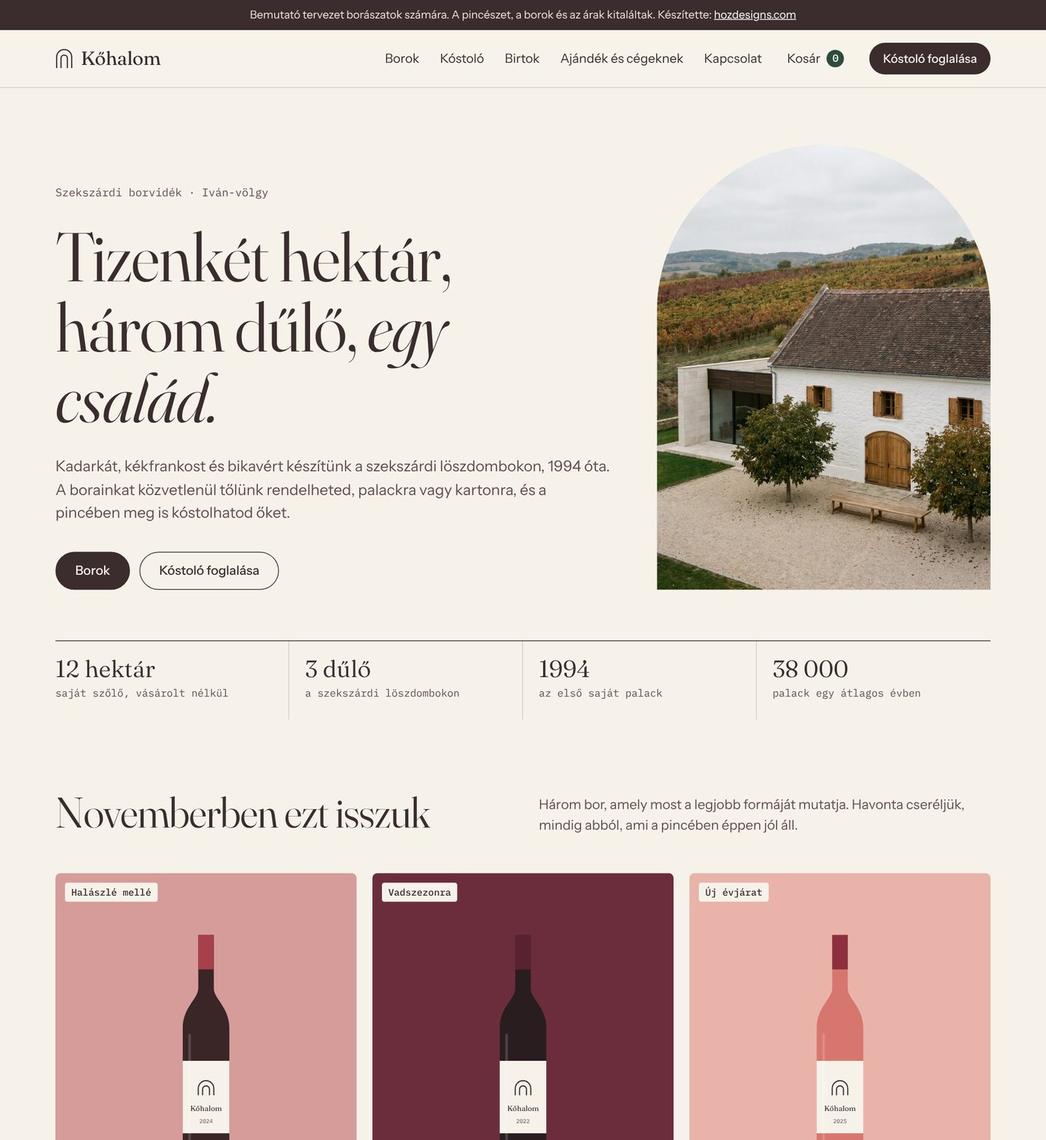
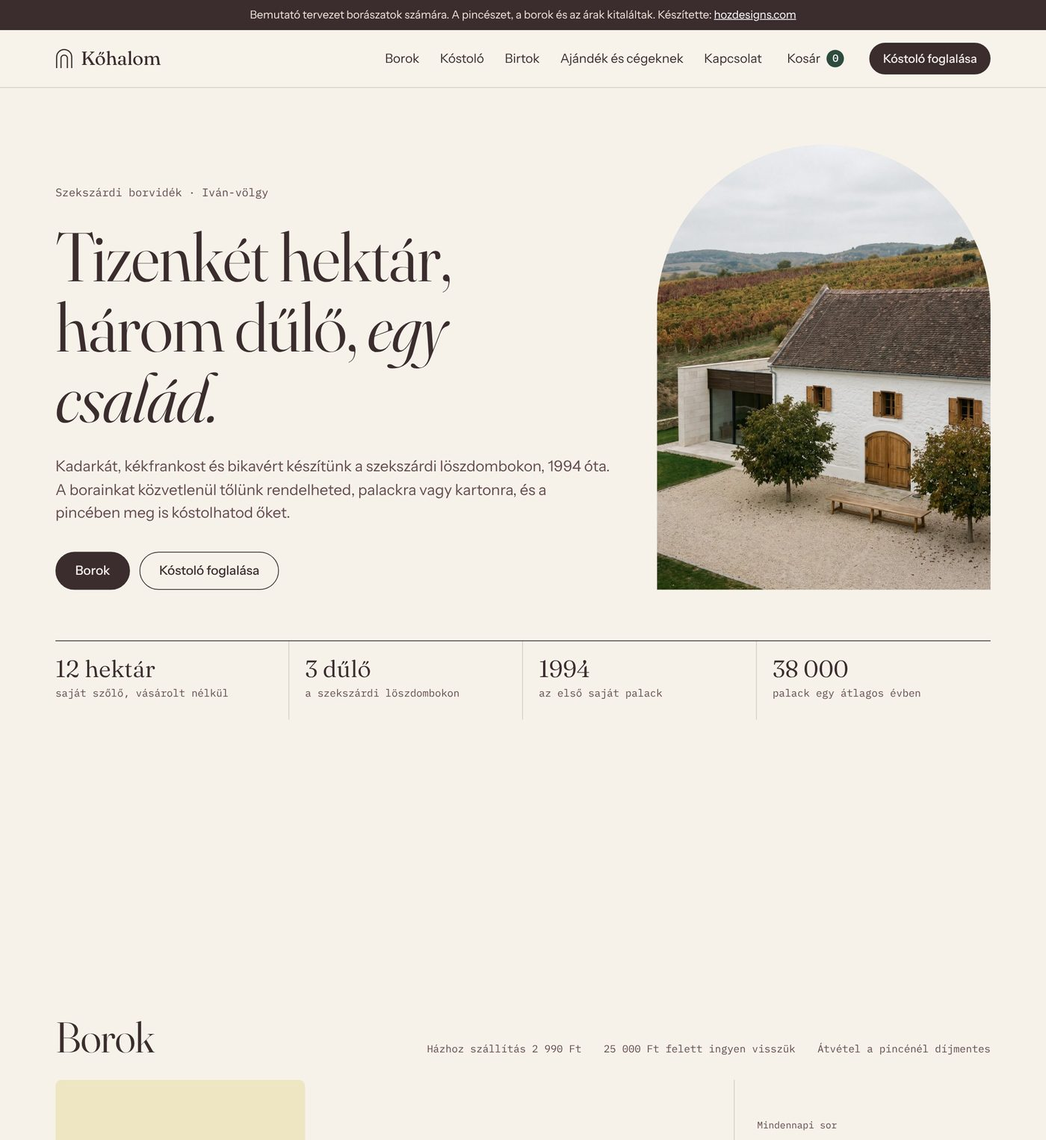
teszt-boraszat: rövidebb főoldal – görgetésre váltó bormutató egy képernyőn, kóstoló foglalókártyával, pincenapló le
Claude-Session: https://claude.ai/code/session_01DyVJTCEQRRMkVdNDVDpjXA

Changed region(s): [[0.0307, 0.7079, 0.9521, 1.0]]

diff --git a/minta/teszt-boraszat/index.html b/minta/teszt-boraszat/index.html
@@ -62,93 +62,65 @@
   </div>
 </section>
 
-<section id="ajanlo" style="padding-top:88px;padding-bottom:40px">
-  <div class="wrap">
-    <div class="head">
-      <h2>Novemberben ezt ajánljuk</h2>
-      <p>Három bor, amely most a legjobb formáját mutatja. Havonta cseréljük, mindig abból, ami a pincében éppen jól áll.</p>
+<section class="show" id="borok">
+  <div class="stage">
+    <div class="wrap">
+      <div class="shead">
+        <h2>Borok</h2>
+        <div class="shipline"><span>Házhoz szállítás 2 990 Ft</span><span>25 000 Ft felett ingyen visszük</span><span>Átvétel a pincénél díjmentes</span></div>
+      </div>
+      <div class="sgrid">
+        <div class="spic c-voros" id="s-pic"></div>
+        <div class="sinfo" id="s-info" aria-live="polite">
+          <div class="mono" id="s-sor"></div>
+          <h3 id="s-nev"></h3>
+          <p id="s-le"></p>
+          <div class="mono" id="s-adat"></div>
+          <p id="s-etel"></p>
+          <div class="sbuy"><div class="price" id="s-ar"></div><div class="qty" id="s-qty"></div></div>
+        </div>
+        <nav class="sidx" id="s-idx" aria-label="Borkínálat"></nav>
+      </div>
     </div>
-    <div class="grid three" id="ajanlo-grid"></div>
-  </div>
-</section>
-
-<section id="borok" style="padding-top:48px">
-  <div class="wrap">
-    <div class="head">
-      <h2>Borok</h2>
-    </div>
-    <div class="shipline"><span>Házhoz szállítás 2 990 Ft</span><span>25 000 Ft felett ingyen visszük</span><span>Átvétel a pincénél díjmentes</span><span>Törött palackot cserélünk</span></div>
-    <div class="chips" role="group" aria-label="Szűrés szín szerint" style="margin:22px 0 36px">
-      <button type="button" data-f="mind" aria-pressed="true">Mind</button>
-      <button type="button" data-f="vilagos" aria-pressed="false">Fehér, rozé, siller</button>
-      <button type="button" data-f="voros" aria-pressed="false">Vörös</button>
-    </div>
-    <div id="tiers"></div>
   </div>
 </section>
 
 <section class="dark" id="kostolo">
-  <div class="wrap">
-    <div class="head">
+  <div class="wrap kgrid">
+    <div>
       <h2>Kóstoló a pincében</h2>
-      <p>Csütörtöktől vasárnapig fogadunk vendégeket, kettőtől tizenhat főig. A kóstolót mindig a család egyik tagja vezeti. Válassz csomagot, és kérj időpontot.</p>
+      <p class="lead">Csütörtöktől vasárnapig fogadunk vendégeket, kettőtől tizenhat főig. A kóstolót mindig a család egyik tagja vezeti, a pince asztalánál.</p>
+      <img class="ph" src="img/kostolo.jpg" width="900" height="1205" alt="Vörösbor töltése a pince asztalánál, mellette kenyér, sajt és kolbász" loading="lazy">
+      <ul class="terms">
+        <li>A kóstoló díjából fejenként 2 000 Ft-ot beszámítunk, ha helyben bort is viszel.</li>
+        <li>Fizetni a helyszínen lehet, kártyával, készpénzzel vagy SZÉP-kártyával.</li>
+        <li>Lemondani az előző nap délig díjmentesen lehet.</li>
+      </ul>
+      <details><summary>Jöhetünk gyerekkel vagy kutyával?</summary><p>Igen. A gyerekeknek szörpöt adunk, a kutyáknak vizet, az udvar zárt.</p></details>
+      <details><summary>Mi lesz azzal, aki vezet?</summary><p>A sofőr ingyen jön, szőlőlevet és kávét kap. Szállást a faluban három helyen tudunk ajánlani.</p></details>
+      <details><summary>Adhatom ajándékba?</summary><p>Igen, kóstolóutalványt az <a href="#ajandek">ajándékok között</a> találsz. Egy évig érvényes.</p></details>
     </div>
-    <div class="packs" role="group" aria-label="Kóstolócsomagok">
-      <button class="pack" type="button" data-pack="Pincesor" data-price="5500" aria-pressed="false">
-        <span class="d">45 perc · 2–16 fő</span>
-        <h3>Pincesor</h3>
-        <span class="p">5 500 Ft / fő</span>
-        <ul><li>4 bor a mindennapi sorból</li><li>Rövid séta a pincében</li><li>Kenyér, víz</li></ul>
-        <span class="pick">Ezt választom</span>
-      </button>
-      <button class="pack" type="button" data-pack="Birtokkóstoló" data-price="8900" aria-pressed="true">
-        <span class="d">90 perc · 2–16 fő</span>
-        <h3>Birtokkóstoló</h3>
-        <span class="p">8 900 Ft / fő</span>
-        <ul><li>6 bor, köztük egy dűlőválogatás</li><li>Pincelátogatás és hordókóstoló</li><li>Kenyér, sajt, kolbász</li></ul>
-        <span class="pick">Ezt választom</span>
-      </button>
-      <button class="pack" type="button" data-pack="Dűlőválogatás a borásszal" data-price="14900" aria-pressed="false">
-        <span class="d">2 óra · 4–10 fő</span>
-        <h3>Dűlőválogatás a borásszal</h3>
-        <span class="p">14 900 Ft / fő</span>
-        <ul><li>8 bor, régebbi évjáratokkal</li><li>Séta az Iván-völgyi szőlőben</li><li>Hidegtál a környék termelőitől</li></ul>
-        <span class="pick">Ezt választom</span>
-      </button>
-    </div>
-
-    <div class="book">
-      <div>
-        <img class="ph" src="img/kostolo.jpg" width="900" height="1205" alt="Vörösbor töltése a pince asztalánál, mellette kenyér, sajt és kolbász" loading="lazy">
-        <h3>Jó tudni</h3>
-        <ul class="terms">
-          <li>Legalább két nappal előre kérj időpontot.</li>
-          <li>A kóstoló díjából fejenként 2 000 Ft-ot beszámítunk, ha helyben bort is viszel.</li>
-          <li>Fizetni a helyszínen lehet, kártyával, készpénzzel vagy SZÉP-kártyával.</li>
-          <li>Lemondani az előző nap délig díjmentesen lehet.</li>
-        </ul>
-        <details><summary>Jöhetünk gyerekkel vagy kutyával?</summary><p>Igen. A gyerekeknek szörpöt adunk, a kutyáknak vizet, az udvar zárt.</p></details>
-        <details><summary>Mi lesz azzal, aki vezet?</summary><p>A sofőr ingyen jön, szőlőlevet és kávét kap. Szállást a faluban három helyen tudunk ajánlani.</p></details>
-        <details><summary>Adhatom ajándékba?</summary><p>Igen, kóstolóutalványt az <a href="#ajandek">ajándékok között</a> találsz. Egy évig érvényes.</p></details>
+    <form id="f-kostolo" class="kcard" novalidate>
+      <h3>Válassz csomagot</h3>
+      <input type="hidden" name="csomag" value="Birtokkóstoló">
+      <div class="packs rows" role="group" aria-label="Kóstolócsomagok">
+        <button class="pack" type="button" data-pack="Pincesor" data-price="5500" aria-pressed="false"><span class="pick" aria-hidden="true"></span><b class="n">Pincesor</b><span class="p">5 500 Ft / fő</span><span class="d">45 perc · 4 bor · rövid séta a pincében · kenyér, víz</span></button>
+        <button class="pack" type="button" data-pack="Birtokkóstoló" data-price="8900" aria-pressed="true"><span class="pick" aria-hidden="true"></span><b class="n">Birtokkóstoló</b><span class="p">8 900 Ft / fő</span><span class="d">90 perc · 6 bor · pincelátogatás, hordókóstoló · kenyér, sajt, kolbász</span></button>
+        <button class="pack" type="button" data-pack="Dűlőválogatás a borásszal" data-price="14900" aria-pressed="false"><span class="pick" aria-hidden="true"></span><b class="n">Dűlőválogatás a borásszal</b><span class="p">14 900 Ft / fő</span><span class="d">2 óra · 8 bor, régi évjáratokkal · séta a szőlőben · hidegtál · 4–10 fő</span></button>
       </div>
-      <form id="f-kostolo" novalidate>
-        <h3>Időpontkérés</h3>
-        <label class="f"><span>Csomag</span>
-          <select class="inp" name="csomag"><option>Pincesor</option><option selected>Birtokkóstoló</option><option>Dűlőválogatás a borásszal</option></select></label>
-        <div class="row">
-          <label class="f"><span>Nap</span><input class="inp" type="date" name="nap" required></label>
-          <label class="f"><span>Kezdés</span><select class="inp" name="ido"><option>10:00</option><option>12:00</option><option selected>14:00</option><option>16:00</option></select></label>
-        </div>
-        <div class="row">
-          <label class="f"><span>Létszám</span><select class="inp" name="fo"><option>2 fő</option><option>3 fő</option><option selected>4 fő</option><option>5 fő</option><option>6 fő</option><option>7–10 fő</option><option>11–16 fő</option></select></label>
-          <label class="f"><span>Telefonszám</span><input class="inp" type="tel" name="tel" autocomplete="tel" required></label>
-        </div>
-        <label class="f"><span>Név</span><input class="inp" name="nev" autocomplete="name" required></label>
-        <button class="btn" type="submit">Időpontot kérek</button>
-        <p class="note" data-sum>Birtokkóstoló, 4 fő: 35 600 Ft a helyszínen. Ez még nem foglalás, 24 órán belül visszaigazoljuk. Telefonon is kérhetsz időpontot: <a href="tel:+36301234567">+36 30 123 4567</a></p>
-        <p class="ok" role="status">Köszönjük, megkaptuk. Bemutató oldalon vagy, ezért levél most nem megy ki. Élesben a pincészet azonnal értesítést kap a kérésről.</p>
-      </form>
-    </div>
+      <div class="row">
+        <label class="f"><span>Nap</span><input class="inp" type="date" name="nap" required></label>
+        <label class="f"><span>Kezdés</span><select class="inp" name="ido"><option>10:00</option><option>12:00</option><option selected>14:00</option><option>16:00</option></select></label>
+      </div>
+      <div class="row">
+        <label class="f"><span>Létszám</span><select class="inp" name="fo"><option>2 fő</option><option>3 fő</option><option selected>4 fő</option><option>5 fő</option><option>6 fő</option><option>7–10 fő</option><option>11–16 fő</option></select></label>
+        <label class="f"><span>Telefonszám</span><input class="inp" type="tel" name="tel" autocomplete="tel" required></label>
+      </div>
+      <label class="f"><span>Név</span><input class="inp" name="nev" autocomplete="name" required></label>
+      <button class="btn" type="submit">Időpontot kérek</button>
+      <p class="note" data-sum>Birtokkóstoló, 4 fő: 35 600 Ft a helyszínen. Ez még nem foglalás, 24 órán belül visszaigazoljuk. Telefonon is kérhetsz időpontot: <a href="tel:+36301234567">+36 30 123 4567</a></p>
+      <p class="ok" role="status">Köszönjük, megkaptuk. Bemutató oldalon vagy, ezért levél most nem megy ki. Élesben a pincészet azonnal értesítést kap a kérésről.</p>
+    </form>
   </div>
 </section>
 
@@ -193,21 +165,6 @@
           <button class="btn" type="submit">Ajánlatot kérek</button>
           <p class="ok" role="status" style="background:var(--zold-2)">Köszönjük, megkaptuk. Bemutató oldalon vagy, ezért levél most nem megy ki.</p>
         </form>
-      </div>
-    </div>
-  </div>
-</section>
-
-<section id="naplo" style="padding-top:0">
-  <div class="wrap logwrap">
-    <div class="arch"><img src="img/szuret.jpg" width="900" height="1205" alt="Kékfrankos szüretelése kézzel, metszőollóval" loading="lazy"></div>
-    <div>
-      <h2>Pincenapló</h2>
-      <p class="lead">Pár sor arról, mi történik éppen a szőlőben és a pincében.</p>
-      <div class="log">
-        <article><time datetime="2026-11-09">2026. november 9.</time><h3>Lefejtettük a kadarkát</h3><p>Az idei világosabb lett a tavalyinál, és nagyon meggyes. Tavasszal palackozzuk, addig hagyjuk békén.</p></article>
-        <article><time datetime="2026-10-17">2026. október 17.</time><h3>Vége a szüretnek</h3><p>Utoljára a Porkoláb cabernet franc-ja jött be. Huszonhárom nap, egy elromlott prés, nulla eső. Jó év volt.</p></article>
-        <article><time datetime="2026-09-28">2026. szeptember 28.</time><h3>Megjött az új siller</h3><p>A 2025-ös elfogyott augusztusra, ezért idén kétszer annyit készítettünk. Hűtve idd, de ne jegesen.</p></article>
       </div>
     </div>
   </div>
@@ -261,7 +218,7 @@
         <p>Családi pincészet a szekszárdi Iván-völgyben, 1994 óta.</p>
       </div>
       <div><h4>Vásárlás</h4><ul><li><a href="#borok">Borok</a></li><li><a href="#ajandek">Ajándék és cégeknek</a></li><li><a href="#borok">Szállítás és fizetés</a></li><li><a href="#">ÁSZF és elállás</a></li></ul></div>
-      <div><h4>Pince</h4><ul><li><a href="#kostolo">Kóstoló</a></li><li><a href="birtok/">Birtok</a></li><li><a href="#naplo">Pincenapló</a></li><li><a href="#kapcsolat">Kapcsolat</a></li></ul></div>
+      <div><h4>Pince</h4><ul><li><a href="#kostolo">Kóstoló</a></li><li><a href="birtok/">Birtok</a></li><li><a href="#kapcsolat">Kapcsolat</a></li></ul></div>
       <div><h4>Fizetés és szállítás</h4><ul><li>Bankkártya, átutalás, utánvét</li><li>GLS futár, 2–4 munkanap</li><li>Csomagautomata 1 690 Ft</li></ul></div>
     </div>
     <div class="bar"><span>© 2026 Kőhalom Pince · Bemutató oldal, a pincészet kitalált</span><span>18 éven aluliakat nem szolgálunk ki. Fogyaszd felelősséggel.</span><span>Weboldal: <a href="https://hozdesigns.com">hozdesigns.com</a></span></div>
@@ -293,17 +250,6 @@
     </div>
   </div>
 </dialog>
-
-<dialog id="borlap" aria-labelledby="bl-nev"><div class="in"><div class="pic" id="bl-pic"></div><div class="txt">
-  <button class="x" type="button" data-close aria-label="Bezárás">×</button>
-  <div class="mono" id="bl-sor" style="color:var(--fust)"></div>
-  <h3 id="bl-nev"></h3>
-  <p id="bl-leiras"></p>
-  <dl id="bl-adat"></dl>
-  <p id="bl-etel" style="color:var(--fust);margin:0"></p>
-  <div class="qty" id="bl-qty"></div>
-  <p class="note" id="bl-ar"></p>
-</div></div></dialog>
 
 <dialog id="kor">
   <svg><use href="#iv"/></svg>
@@ -348,25 +294,34 @@ var G=[
 var P={};W.concat(G).forEach(function(w){P[w.id]=w});
 var AJANLO=['kadarka','bikaver','siller'], TAG={kadarka:'Halászlé mellé',bikaver:'Vadszezonra',siller:'Új évjárat'};
 
-function card(w,tag){
-  return '<article class="wine" data-g="'+w.g+'"><button class="pic c-'+w.c+'" type="button" data-open="'+w.id+'" aria-label="'+w.nev+' '+w.ev+' – részletek">'+(tag?'<span class="tag">'+tag+'</span>':'')+bottle(w.c,w.ev)+'</button>'+
-   '<h3><button type="button" data-open="'+w.id+'">'+w.nev+'</button></h3><div class="meta">'+w.ev+' · '+w.dulo.split(',')[0]+' · száraz</div><p class="line">'+w.sor+'</p>'+
-   '<div class="buy"><div class="price">'+ft(w.ar)+'<small>0,75 l · '+ft(w.ar/0.75)+'/l</small></div><button class="btn small line" type="button" data-add="'+w.id+'">Kosárba</button></div></article>';
+/* bormutató: egy képernyő, a görgetés lapoz */
+var sec=$('#borok'), stage=$('.stage',sec), cur=null, HEAD=73;
+$('#s-idx').innerHTML=TIERS.map(function(t){return '<div class="t">'+t.nev+'</div>'+W.filter(function(w){return w.t===t.id}).map(function(w){return '<button type="button" data-show="'+w.id+'"><span>'+w.nev+'</span><span>'+ft(w.ar)+'</span></button>'}).join('')}).join('');
+var ORDER=[];TIERS.forEach(function(t){W.forEach(function(w){if(w.t===t.id)ORDER.push(w.id)})});
+var calm=window.matchMedia('(prefers-reduced-motion: reduce)').matches;
+function show(id){if(id===cur)return;cur=id;var w=P[id];
+  $('#s-pic').className='spic c-'+w.c;$('#s-pic').innerHTML=bottle(w.c,w.ev);
+  $('#s-sor').textContent=TIERS.filter(function(t){return t.id===w.t})[0].nev+' · '+('0'+(ORDER.indexOf(id)+1)).slice(-2)+' / '+ORDER.length;
+  $('#s-nev').textContent=w.nev+' '+w.ev;$('#s-le').textContent=w.le;
+  $('#s-adat').textContent=w.fajta+' · '+w.dulo+' · '+w.alk+' · száraz · '+w.ho;
+  $('#s-etel').textContent='Mihez: '+w.etel;
+  $('#s-ar').innerHTML=ft(w.ar)+'<small>0,75 l · '+ft(w.ar/0.75)+'/l</small>';
+  $('#s-qty').innerHTML=[1,6,12].map(function(q,i){return '<button class="btn small'+(i?' line':'')+'" type="button" data-add="'+id+'" data-qn="'+q+'">'+(q===1?'Kosárba':q+' palack · '+ft(q*w.ar))+'</button>'}).join('');
+  $$('#s-idx button').forEach(function(b){var on=b.dataset.show===id;b.setAttribute('aria-current',on);if(on&&!pinned())b.scrollIntoView({block:'nearest',inline:'center'})});
+  if(!calm&&$('#s-info').animate){$('#s-info').animate([{opacity:0,transform:'translateY(8px)'},{opacity:1,transform:'none'}],{duration:320,easing:'ease-out'});$('#s-pic svg').animate([{opacity:0,transform:'translateY(12%)'},{opacity:1,transform:'translateY(5%)'}],{duration:380,easing:'ease-out'})}
 }
-$('#ajanlo-grid').innerHTML=AJANLO.map(function(id){return card(P[id],TAG[id])}).join('');
-$('#tiers').innerHTML=TIERS.map(function(t){
-  return '<div class="tier"><div class="th"><h3>'+t.nev+'</h3><p>'+t.txt+'</p><span class="mono">'+t.ar+'</span></div><div class="grid">'+W.filter(function(w){return w.t===t.id}).map(function(w){return card(w)}).join('')+(t.id==='dulo'?'<div class="promo"><div><h3>Vegyes karton, ahogy szeretnéd</h3><p>Hat palack bármiből már kartonnak számít. A kosárban egy gombbal hatra kerekítheted bármelyik bort, 25 000 Ft felett pedig ingyen visszük.</p></div><div><button class="btn line" type="button" data-cart>Kosár megnyitása</button></div></div>':'')+'</div></div>';
-}).join('');
+var mq=window.matchMedia('(min-width:1001px) and (min-height:600px)');
+function pinned(){return sec.classList.contains('pin')}
+function setPin(){sec.classList.toggle('pin',mq.matches&&!calm)}
+function span(){return sec.offsetHeight-stage.offsetHeight}
+function onScroll(){if(!pinned())return;var r=sec.getBoundingClientRect(),p=(HEAD-r.top)/span();if(p<0||p>1)return;show(ORDER[Math.min(ORDER.length-1,Math.floor(p*ORDER.length))])}
+setPin();if(mq.addEventListener)mq.addEventListener('change',setPin);
+window.addEventListener('scroll',onScroll,{passive:true});
+$('#s-idx').addEventListener('click',function(e){var b=e.target.closest('[data-show]');if(!b)return;
+  if(pinned()){var i=ORDER.indexOf(b.dataset.show),r=sec.getBoundingClientRect();window.scrollTo({top:window.scrollY+r.top-HEAD+(i+.5)/ORDER.length*span(),behavior:calm?'auto':'smooth'})}
+  show(b.dataset.show)});
+show('kadarka');cur=null;show(ORDER[0]);
 $('#gifts').innerHTML=G.map(function(g){return '<li><div><b>'+g.nev+'</b><small>'+g.sor+'</small></div><span class="pr">'+ft(g.ar)+'</span><button class="btn small line" type="button" data-add="'+g.id+'">Kosárba</button></li>'}).join('');
-
-/* szűrő */
-$$('.chips button').forEach(function(b){b.onclick=function(){
-  $$('.chips button').forEach(function(x){x.setAttribute('aria-pressed',x===b)});
-  var f=b.dataset.f;
-  $$('#tiers .wine').forEach(function(w){w.hidden=f!=='mind'&&w.dataset.g!==f});
-  $$('#tiers .tier').forEach(function(t){t.hidden=!$$('.wine',t).some(function(w){return !w.hidden})});
-  $$('#tiers .promo').forEach(function(x){x.hidden=f==='vilagos'});
-}});
 
 /* kosár */
 var cart={};try{cart=JSON.parse(sessionStorage.getItem('kohalom-kosar'))||{}}catch(e){}
@@ -388,31 +343,18 @@ function draw(){
   $('#checkout').disabled=!n;
 }
 function add(id,q){cart[id]=Math.max(0,(cart[id]||0)+q);if(!cart[id])delete cart[id];save();draw()}
-var kosar=$('#kosar'), borlap=$('#borlap');
-function openCart(){$('#coNote').textContent='Vendégként is rendelhetsz, regisztráció nélkül.';if(borlap.open)borlap.close();if(!kosar.open)kosar.showModal()}
-
-/* borlap */
-function openWine(id){var w=P[id];if(!w||!w.le)return;
-  $('#bl-pic').className='pic c-'+w.c;$('#bl-pic').innerHTML=bottle(w.c,w.ev);
-  $('#bl-sor').textContent=TIERS.filter(function(t){return t.id===w.t})[0].nev+' · '+w.ev;
-  $('#bl-nev').textContent=w.nev;$('#bl-leiras').textContent=w.le;
-  $('#bl-adat').innerHTML=[['Fajta',w.fajta],['Dűlő',w.dulo],['Alkohol',w.alk+' · száraz'],['Palackszám',w.pal+' db'],['Kínáld',w.ho]].map(function(r){return '<dt>'+r[0]+'</dt><dd>'+r[1]+'</dd>'}).join('');
-  $('#bl-etel').textContent='Mihez: '+w.etel;
-  $('#bl-qty').innerHTML=[1,6,12].map(function(q,i){return '<button class="btn small'+(i?' line':'')+'" type="button" data-add="'+id+'" data-qn="'+q+'">'+(q===1?'1 palack':q+' palack')+' · '+ft(q*w.ar)+'</button>'}).join('');
-  $('#bl-ar').textContent=ft(w.ar)+' / palack (0,75 l), '+ft(w.ar/0.75)+' / liter. Szulfitokat tartalmaz.';
-  borlap.showModal();
-}
+var kosar=$('#kosar');
+function openCart(){$('#coNote').textContent='Vendégként is rendelhetsz, regisztráció nélkül.';if(!kosar.open)kosar.showModal()}
 
 document.addEventListener('click',function(e){
-  var t=e.target.closest('[data-add],[data-open],[data-cart],[data-close],[data-q],[data-six]');if(!t)return;
+  var t=e.target.closest('[data-add],[data-cart],[data-close],[data-q],[data-six]');if(!t)return;
   if(t.dataset.add){add(t.dataset.add,+(t.dataset.qn||1));openCart()}
-  else if(t.dataset.open)openWine(t.dataset.open);
   else if(t.hasAttribute('data-cart'))openCart();
   else if(t.hasAttribute('data-close'))t.closest('dialog').close();
   else if(t.dataset.q)add(t.dataset.q,+t.dataset.d);
   else if(t.dataset.six)add(t.dataset.six,6-(cart[t.dataset.six]||0));
 });
-[kosar,borlap].forEach(function(d){d.addEventListener('click',function(e){if(e.target===d)d.close()})});
+[kosar].forEach(function(d){d.addEventListener('click',function(e){if(e.target===d)d.close()})});
 $$('[name=way]').forEach(function(r){r.onchange=draw});
 $('#checkout').onclick=function(){$('#coNote').textContent='Bemutató oldalon vagy, itt most megállunk. Élesben innen a pénztár jön: adatok, fizetés bankkártyával, átutalással vagy utánvéttel.'};
 draw();
@@ -422,7 +364,7 @@ var fk=$('#f-kostolo');
 function ksum(){var p=$('.pack[aria-pressed=true]'),n=parseInt(fk.fo.value,10),pr=+p.dataset.price;
   $('[data-sum]').firstChild.textContent=p.dataset.pack+', '+fk.fo.value+': '+(/–/.test(fk.fo.value)?ft(pr)+' / fő':ft(pr*n))+' a helyszínen. Ez még nem foglalás, 24 órán belül visszaigazoljuk. Telefonon is kérhetsz időpontot: '}
 function pick(name){$$('.pack').forEach(function(p){p.setAttribute('aria-pressed',p.dataset.pack===name)});fk.csomag.value=name;ksum()}
-$$('.pack').forEach(function(p){p.onclick=function(){pick(p.dataset.pack);fk.scrollIntoView({behavior:'smooth',block:'center'})}});
+$$('.pack').forEach(function(p){p.onclick=function(){pick(p.dataset.pack)}});
 fk.csomag.onchange=function(){pick(fk.csomag.value)};fk.fo.onchange=ksum;
 var d=new Date();d.setDate(d.getDate()+2);fk.nap.min=d.toISOString().slice(0,10);
 $$('form').forEach(function(f){f.addEventListener('submit',function(e){e.preventDefault();

diff --git a/minta/teszt-boraszat/stilus.css b/minta/teszt-boraszat/stilus.css
@@ -345,3 +345,85 @@ dialog::backdrop{background:rgba(30,35,32,.55)}
   .mbar b{font:500 12px/1 var(--mono);background:var(--zold);color:#fff;border-radius:999px;padding:2px 6px;margin-left:4px}
 }
 @media (prefers-reduced-motion:reduce){*{transition:none!important;scroll-behavior:auto!important}}
+
+/* ===== főoldal 2: bormutató és kóstolókártya ===== */
+.show{padding:0}
+.stage{padding:72px 0 88px}
+.shead{display:flex;justify-content:space-between;align-items:baseline;gap:24px;flex-wrap:wrap;margin-bottom:24px}
+.shead .shipline{margin:0}
+.sgrid{display:grid;grid-template-columns:.78fr 1.12fr .8fr;gap:44px;align-items:stretch}
+.spic{border-radius:8px;display:flex;align-items:flex-end;justify-content:center;overflow:hidden;transition:background-color .45s;height:min(60vh,540px);min-height:360px}
+.spic svg{height:88%;width:auto;transform:translateY(5%)}
+.sinfo{display:flex;flex-direction:column;justify-content:center;min-width:0}
+.sinfo .mono{color:var(--fust)}
+.sinfo h3{font-size:clamp(32px,3.3vw,48px);line-height:1.05;margin:10px 0 16px;font-variation-settings:"opsz" 144}
+.sinfo p{margin:0 0 14px}
+#s-adat{padding:12px 0;border-top:1px solid var(--vonal);border-bottom:1px solid var(--vonal);margin:2px 0 14px}
+#s-etel{color:var(--fust);font-size:16px}
+.sbuy{display:flex;align-items:center;gap:20px;flex-wrap:wrap;margin-top:6px}
+.sbuy .price{font:500 22px/1 var(--sans)}
+.sbuy .price small{display:block;font:400 12px/1.4 var(--mono);color:var(--fust);margin-top:6px}
+.qty{display:flex;gap:8px;flex-wrap:wrap}
+.sidx{border-left:1px solid var(--vonal);padding-left:28px;display:flex;flex-direction:column;justify-content:center}
+.sidx .t{font:400 12px/1.4 var(--mono);color:var(--fust);margin:16px 0 4px}
+.sidx .t:first-child{margin-top:0}
+.sidx button{all:unset;box-sizing:border-box;cursor:pointer;display:flex;justify-content:space-between;align-items:baseline;gap:12px;padding:5px 0;font-size:16px;color:var(--fust);transition:color .2s}
+.sidx button span:last-child{font:400 13px/1.5 var(--mono);white-space:nowrap}
+.sidx button:hover,.sidx button[aria-current=true]{color:var(--tinta)}
+.sidx button[aria-current=true]{font-weight:500}
+.sidx button span:first-child::before{content:"";display:inline-block;width:0;height:1.5px;background:var(--tinta);vertical-align:middle;margin-right:0;transition:width .25s,margin .25s}
+.sidx button[aria-current=true] span:first-child::before{width:14px;margin-right:8px}
+.sidx button:focus-visible{outline:2px solid var(--zold);outline-offset:2px}
+@media (min-width:1001px) and (min-height:600px){
+  .show.pin{height:250vh}
+  .show.pin .stage{position:sticky;top:73px;height:calc(100vh - 73px);padding:0;display:flex;align-items:center}
+  .show.pin .spic{height:min(calc(100vh - 230px),540px);min-height:300px}
+}
+@media (max-height:760px) and (min-width:1001px){
+  .sinfo h3{font-size:34px;margin:6px 0 10px}
+  #s-le{font-size:16px}
+  .sinfo p{margin-bottom:10px}
+  #s-adat{padding:9px 0;margin-bottom:10px}
+  .sidx button{padding:3px 0;font-size:15px}
+  .sidx .t{margin-top:10px}
+  .shead{margin-bottom:16px}
+  .shead h2{font-size:38px}
+}
+
+.kgrid{display:grid;grid-template-columns:1fr 1fr;gap:64px;align-items:start}
+.kgrid h2{margin-bottom:18px}
+.kgrid .ph{width:100%;height:auto;aspect-ratio:4/3;object-fit:cover;object-position:50% 78%;border-radius:6px;margin:30px 0 26px}
+.kgrid .terms{color:#B9B3A6;font-size:16px;padding-left:20px;margin:0 0 14px}
+.kgrid .terms li{margin-bottom:8px}
+.kcard{background:#262B27;border:1px solid #3A403B;border-radius:10px;padding:32px;position:sticky;top:96px}
+.kcard h3{font-size:30px}
+.packs.rows{display:block;border:0;margin:16px 0 24px}
+.packs.rows .pack{display:grid;grid-template-columns:auto 1fr auto;gap:4px 14px;align-items:baseline;width:100%;padding:16px 0;border:0;border-top:1px solid #4A4F49}
+.packs.rows .pack:last-child{border-bottom:1px solid #4A4F49}
+.packs.rows .pick{grid-row:1/3;align-self:start;margin:6px 0 0}
+.packs.rows .n{font:400 23px/1.2 var(--serif)}
+.packs.rows .p{font:500 16px/1.2 var(--sans);margin:0;white-space:nowrap}
+.packs.rows .d{grid-column:2/4;font:400 13px/1.5 var(--mono);color:#B9B3A6}
+.packs.rows .pack[aria-pressed=true] .n{color:#fff}
+.packs.rows .pack:hover .n{text-decoration:underline;text-decoration-thickness:1px;text-underline-offset:4px}
+
+@media (max-width:1000px){
+  .stage{padding:56px 0 64px}
+  .sgrid{grid-template-columns:1fr;gap:22px}
+  .sidx{order:-1;border:0;padding:0 0 4px;flex-direction:row;gap:8px;overflow-x:auto;justify-content:flex-start;scrollbar-width:none;margin:0 -20px;padding-left:20px;padding-right:20px}
+  .sidx::-webkit-scrollbar{display:none}
+  .sidx .t{display:none}
+  .sidx button{border:1px solid var(--vonal);border-radius:999px;padding:8px 14px;white-space:nowrap;font-size:15px;flex:none}
+  .sidx button span:last-child,.sidx button span:first-child::before{display:none}
+  .sidx button[aria-current=true]{background:var(--tinta);color:var(--papir);border-color:var(--tinta)}
+  .spic{height:300px;min-height:0}
+  .kgrid{grid-template-columns:1fr;gap:36px}
+  .kcard{position:static;padding:26px 20px}
+}
+@media (max-width:640px){
+  .packs.rows .n{font-size:20px}
+  .packs.rows .pack{grid-template-columns:auto 1fr}
+  .packs.rows .p{grid-column:2}
+  .packs.rows .d{grid-column:2}
+  .sbuy{gap:14px}
+}

diff --git a/minta/teszt-boraszat/birtok/index.html b/minta/teszt-boraszat/birtok/index.html
@@ -155,7 +155,7 @@
         <p>Családi pincészet a szekszárdi Iván-völgyben, 1994 óta.</p>
       </div>
       <div><h4>Vásárlás</h4><ul><li><a href="../#borok">Borok</a></li><li><a href="../#ajandek">Ajándék és cégeknek</a></li><li><a href="../#borok">Szállítás és fizetés</a></li><li><a href="#">ÁSZF és elállás</a></li></ul></div>
-      <div><h4>Pince</h4><ul><li><a href="../#kostolo">Kóstoló</a></li><li><a href="./">Birtok</a></li><li><a href="../#naplo">Pincenapló</a></li><li><a href="../#kapcsolat">Kapcsolat</a></li></ul></div>
+      <div><h4>Pince</h4><ul><li><a href="../#kostolo">Kóstoló</a></li><li><a href="./">Birtok</a></li><li><a href="../#kapcsolat">Kapcsolat</a></li></ul></div>
       <div><h4>Fizetés és szállítás</h4><ul><li>Bankkártya, átutalás, utánvét</li><li>GLS futár, 2–4 munkanap</li><li>Csomagautomata 1 690 Ft</li></ul></div>
     </div>
     <div class="bar"><span>© 2026 Kőhalom Pince · Bemutató oldal, a pincészet kitalált</span><span>18 éven aluliakat nem szolgálunk ki. Fogyaszd felelősséggel.</span><span>Weboldal: <a href="https://hozdesigns.com">hozdesigns.com</a></span></div>
